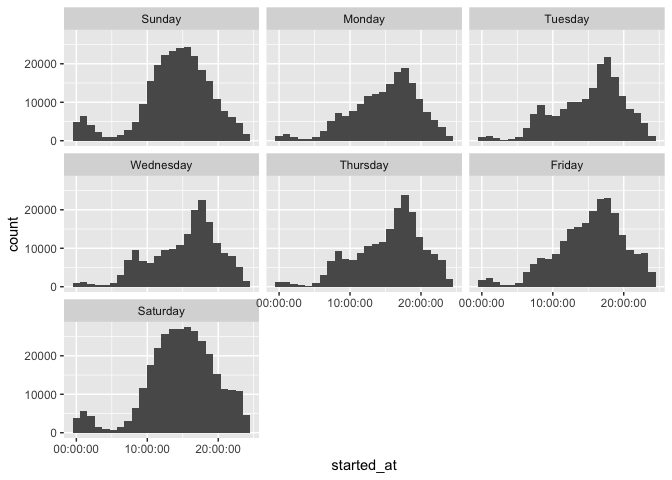
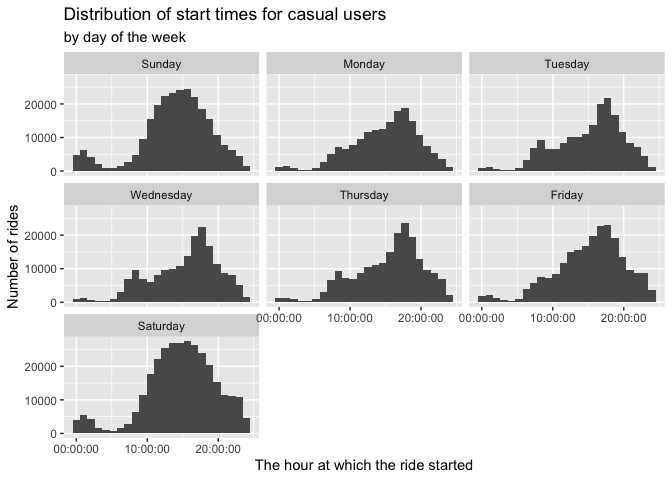
Worked on report and updated some files

diff --git a/cyclistic_data_analysis.md b/cyclistic_data_analysis.md
@@ -1,0 +1,195 @@
+Cyclistic data analysis
+================
+Oscar Fernandez Solano
+2024-02-15
+
+![](bike_rental.jpg "Bike rental")
+
+[Photograph by Kanoa
+Leong](https://unsplash.com/photos/a-row-of-bikes-parked-next-to-each-other-on-a-sidewalk-xbwmGakJuME)
+
+# Introduction
+
+In 2016, Cyclistic (a ficticious company) launched a successful
+bike-sharing offering. Since then, the program has grown to a fleet of
+5,824 bikes georeferenced and locked to a network of 692 stations
+throughout Chicago. Bikes can be unlocked from one station and returned
+to any other station in the system at any time.
+
+One of the approaches that helped make this possible was the flexibility
+of their pricing plans: single-ride passes, full-day passes, and annual
+memberships. Customers who purchase single-ride passes or full-day
+passes are called casual riders. Customers who purchase annual
+memberships are called Cyclistic members.
+
+Cyclistic’s financial analysts concluded that annual members are much
+more profitable than casual cyclists. The goal is clear: Design
+marketing strategies aimed at converting occasional cyclists into annual
+members. However, to do that, the marketing analyst team needs to better
+understand how annual members and casual riders differ, why casual
+riders would purchase a membership, and how digital media could impact
+their marketing tactics.
+
+In this project, we show an interest in analyzing Cyclistic’s historical
+bike trip data to identify trends that shed light to the answer to the
+following question: **How are annual members and casual riders different
+when it comes to using Cyclistic bikes?**
+
+# The business task
+
+Find any differences that may exist between casual cyclists and
+Cyclistic members based on Cyclistic trip data from the last 12 months.
+
+# Preparing the data
+
+This project uses data from a real company. The details about this
+dataset are shown in the following section. Next, we provide a summary
+of the cleaning steps and the link to access the complete files where
+the steps are more detailed.
+
+## The Dataset
+
+For this project, we used data provided by
+[Motivate](https://divvy-tripdata.s3.amazonaws.com/index.html) under
+this [license](https://divvybikes.com/data-license-agreement). We
+downloaded the files corresponding to the year 2023 (12 files).
+
+This dataset contains information about the rides from the mentioned
+date. For each ride identified with a unique id, we have information
+about the type of bicycle used, start and end date including time,
+information about the start and end station like name, id, and location
+coordinates (longitude and latitude). There is also an attribute for the
+type of user, wheter it is casual or member. This attribute is key to
+help us solving our business task.
+
+## How data is stored?
+
+To store the data, we created a Data folder containing the 12 indivudual
+files (one per month). Then we extracted each csv file and removed the
+original zip files. After verifying that each file has the same
+structure, we joined them into a single csv file. This is the file that
+we used for the following steps.
+
+For a detailed view of the steps made, you can see the rmd notebook of
+the preparing process
+[here](https://github.com/OscarFernandezMX/Data_Science_Projects/blob/main/Cyclistic_preparing.Rmd).
+
+# Data cleaning
+
+The data was cleaned in two parts. One using PySpark and SQL, and then
+using R. Next, we describe briefly the steps followed to clean the data.
+
+## Summary of cleaning steps
+
+In part 1, we checked each attribute for inconsistencies like:  
+- NULL or NA values.  
+- Format of each attribute.  
+- Range of numeric values.  
+- Length of strings.  
+- Unique values for categorical attributes.
+
+Based on these steps, we made the following changes in the data:  
+- We found that there were rides whose date was before or after 2023.
+Although the information could be right, these didn’t belong to our
+range of interest. Therefore, we removed the rides whose start or end
+date wasn’t within that range.  
+- We also found that there were incoherent dates where the start date
+was greater than the end date. The rows containing this inconsistency
+were also removed.  
+- Finally, we removed rows with empy values for any attribute.
+
+The complete report of the cleaning steps for part 1 can be found
+[here](https://github.com/OscarFernandezMX/Data_Science_Projects/blob/main/Cyclistic_cleaning_part1.ipynb).
+
+In part 2, we added the following two attributes:  
+- `ride_length`: a calculation of the duration of the ride based on the
+start and end dates.  
+- `day_of_week`: calculated with the start day.
+
+After that, we noticed that there were more rides from members than
+casual users. For this reason, we decided to downsample the members
+class to have balanced classes.
+
+The complete report of the cleaning steps for part 2 can be found
+[here](https://github.com/OscarFernandezMX/Data_Science_Projects/blob/main/Cyclistic_cleaning_part2.md).
+
+# Results
+
+Before conducting the analysis, we decided to extract the components of
+the date to be able to analyze the data based on the month too.
+Therefore, we added the attributes `day`, `month` and `year` to our
+dataset After that, we decided to ignore the attributes related to the
+stations’ location (latitude and longitude). With this final data, we
+made the analysis. Our results show the mean values by day of the week
+and by month for the number of rides and the average duration.
+
+The first difference that we can see between casual users and members is
+in the number of rides along the days of the week.
+
+![](Cyclistic_analyzing_files/figure-gfm/plot%20number%20of%20rides%20per%20day-1.png)
+
+We can see that casual users tend to ride more than members on weekends.
+Member users ride more during the weekdays, and the numbers are very
+similar each workday. On weekends, specially Saturday and Sunday, they
+ride there are less rides than usual. How does this trend look like each
+month?
+
+![](Cyclistic_analyzing_files/figure-gfm/plot%20number%20of%20rides%20per%20month-1.png)
+
+We can see that there is a considerable increase in the use of the
+bicycle starting from March and peaking at August. In September, the use
+starts to decrease and by December it is very low, specially in the
+causal riders. In these months, the member riders use the bicycle more
+than casual members. Casual users ride more than members from May to
+September. Maybe weather plays a role in this. Riding in cold
+temperatures is not very enjoyable for riders. It is not surprise that
+Winter might influence the number of rides as we can see in the next
+graph.
+
+![](Cyclistic_analyzing_files/figure-gfm/plot%20number%20of%20rides%20per%20month%20with%20annotation-1.png)
+
+It is evident that during Winter, both casual and member users ride
+less. Now let’s see the differences with the average ride duration for
+every day of the week.
+
+![](Cyclistic_analyzing_files/figure-gfm/plot%20average%20ride%20duration%20per%20day-1.png)
+
+The average duration of casual users’ rides is almost twice average from
+member rides. In both cases, rides tend to last longer during the
+weekend, but this trend is more visible on casual members. Let’s see
+what happened each month.
+
+![](Cyclistic_analyzing_files/figure-gfm/plot%20average%20ride%20duration%20per%20month-1.png)
+
+People tend to ride more time from April, peaking at July, then
+decreasing smoothly. Until November, the time average time is still
+higher than 20 minutes. However, this trend is more smooth for members,
+where the average ride duration is almost the same, no matter the month.
+Also, we can notably see that casual members ride more time than members
+each month.
+
+At this point, we suspect that casual users ride as a recreational
+activity, while members used it also to commute to work. To investigate
+this further, we decided to graph the distribution of the start time of
+every ride.
+
+![](Cyclistic_analyzing_files/figure-gfm/start%20rides%20distribution%20per%20day%20for%20members-1.png)
+
+In this plot we have some evidence that could suggest that members
+indeed use the bicycle to commute to work. Since we can see some peaks
+before 9:00 and after 15:00 h, which is within the workday.
+Interestingly, on weekends we can’t see that trend, because most people
+work from Monday to Friday.
+
+![](Cyclistic_analyzing_files/figure-gfm/start%20rides%20distribution%20per%20day%20for%20casual%20users-1.png)
+
+In the case of casual users, we can also see two main peaks, but the
+highest is after 15:00 h. While this might also suggest that causal
+riders commute on the bike to work, the available data is not enough to
+support more assumptions. The only thing we might suspect is that, since
+casual users ride more time, they might ride after work, not precisely
+to commute to their homes, but as a recreation ride.
+
+# Conclusions
+
+# Recomendations

diff --git a/Cyclistic_analyzing.md b/Cyclistic_analyzing.md
@@ -324,7 +324,7 @@ ggplot(data = summary_by_day_of_week,
 
 ![](Cyclistic_analyzing_files/figure-gfm/plot%20number%20of%20rides%20per%20day-1.png)<!-- -->
 This graph shows that casual users tend to ride more than members on
-weekdends. Member users ride more during the weekdays, and the numbers
+weekends. Member users ride more during the weekdays, and the numbers
 are very similar each workday. On weekends, specially Saturday and
 Sunday, they ride there are less rides than usual.
 
@@ -448,7 +448,7 @@ hours_distribution %>%
   ggplot(aes(x = started_at)) +
   geom_histogram(bins = 24) +
   facet_wrap(~day_of_week) +
-  labs(title = "Distribution of start times", subtitle = "by day of the week") +
+  labs(title = "Distribution of start times for members", subtitle = "by day of the week") +
   xlab("The hour at which the ride started") +
   ylab("Number of rides")
 ```
@@ -465,7 +465,10 @@ hours_distribution %>%
   filter(member_casual == "casual") %>%
   ggplot(aes(x = started_at)) +
   geom_histogram(bins = 24) +
-  facet_wrap(~day_of_week)
+  facet_wrap(~day_of_week) +
+  labs(title = "Distribution of start times for casual users", subtitle = "by day of the week") +
+  xlab("The hour at which the ride started") +
+  ylab("Number of rides")
 ```
 
 ![](Cyclistic_analyzing_files/figure-gfm/start%20rides%20distribution%20per%20day%20for%20casual%20users-1.png)<!-- -->
@@ -507,12 +510,13 @@ Based on the available data, we can see two important things:
 - It is probable that casual riders use the bicycle more for
 recreational uses. This explains why they ride more time, and the
 seasonal use (see graph below - it’s not very enjoyable to ride in low
-temperatures). - Probably, people with membership use the bicycle to
-commute to work. This might explain why their rides last less and keep
-almost the same during the weekdays, and in every month. Though in
-winter they tend to ride less, those who ride, still use the bicycle to
-commute, therefore, they take almost the same time to arrive, which
-might explain why the average time remains almost the same every month.
+temperatures).  
+- Probably, people with membership use the bicycle to commute to work.
+This might explain why their rides last less and keep almost the same
+during the weekdays, and in every month. Though in winter they tend to
+ride less, those who ride, still use the bicycle to commute, therefore,
+they take almost the same time to arrive, which might explain why the
+average time remains almost the same every month.
 
 ``` r
 ggplot(data = summary_by_month,
